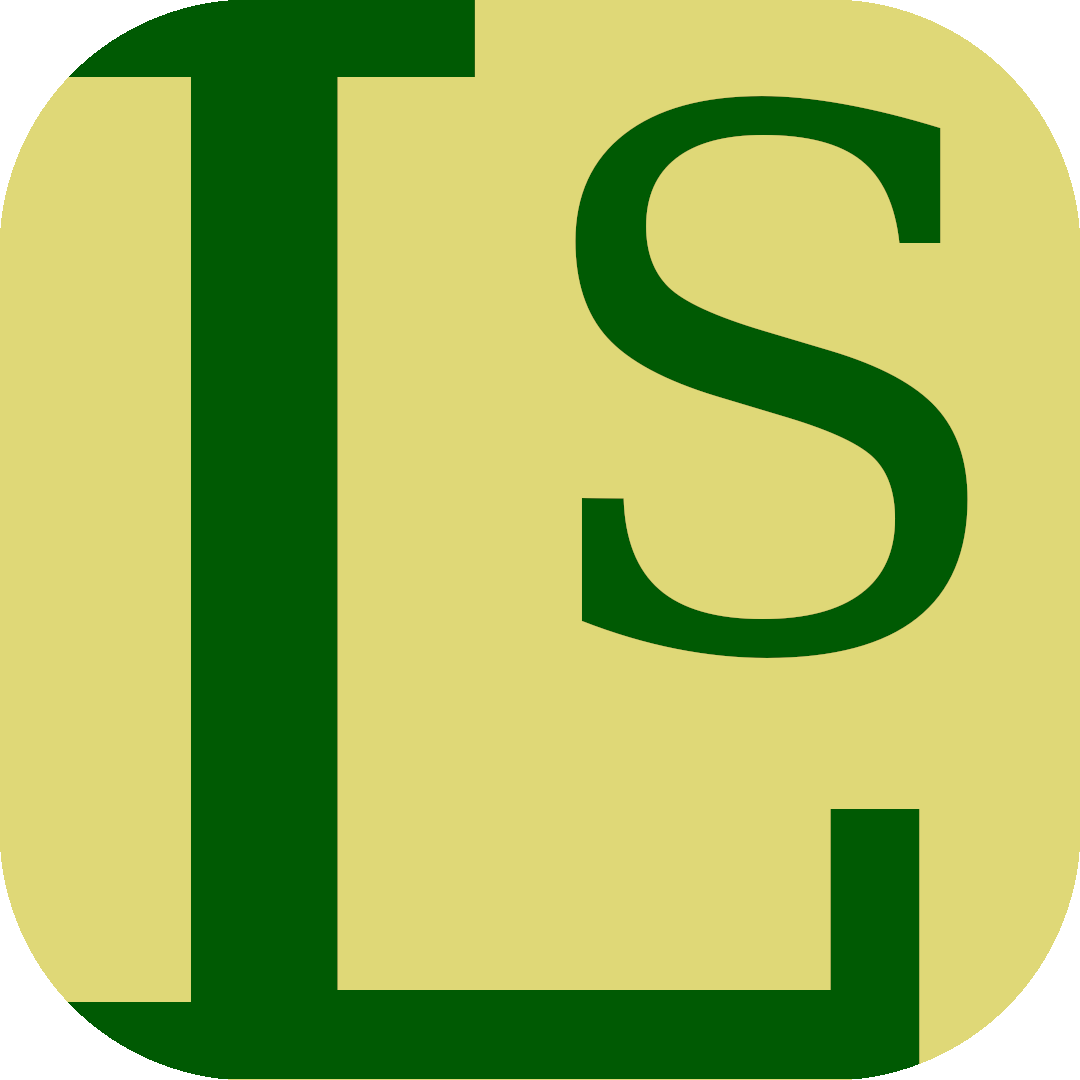
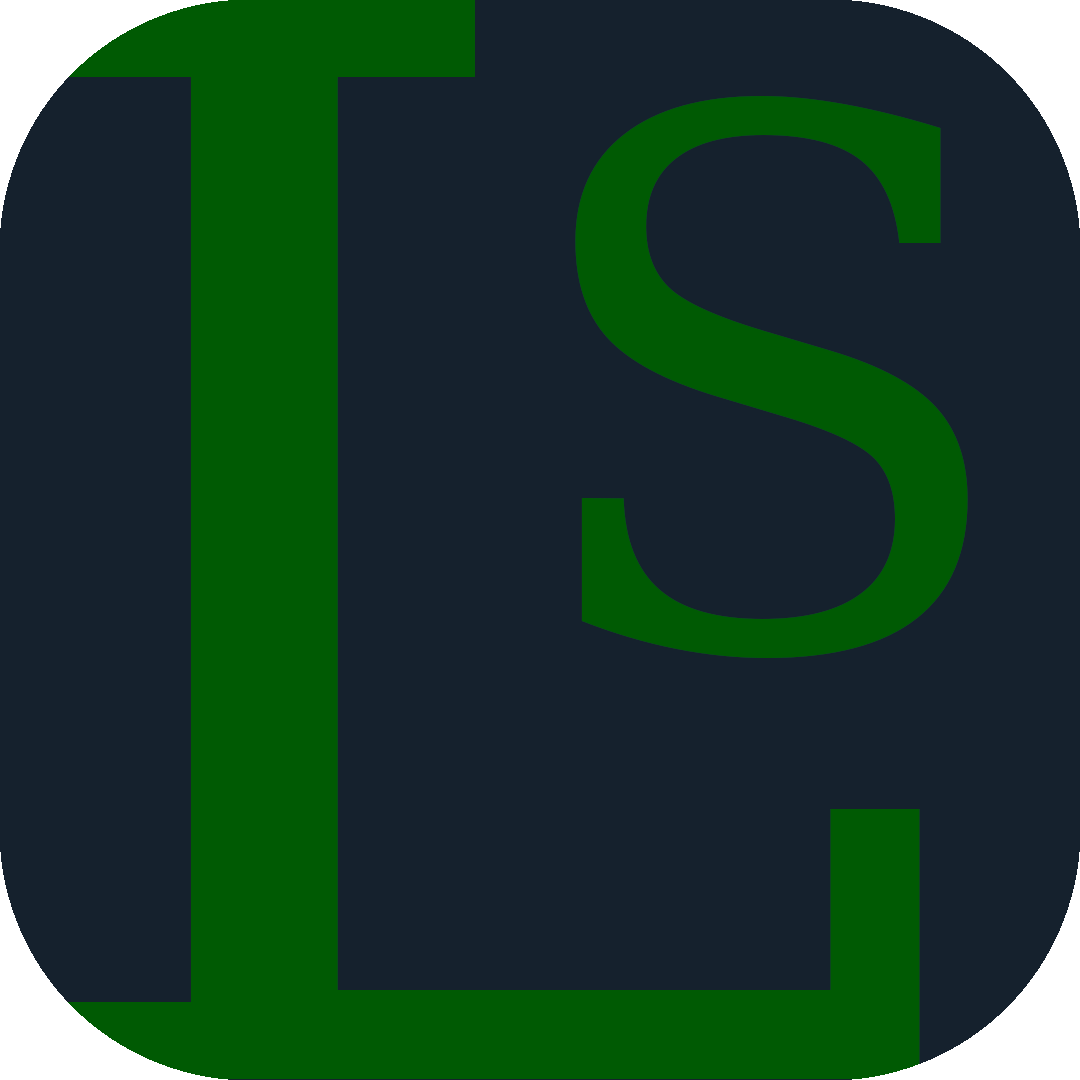
update fav to design colors

diff --git a/frontend/looksyk/src/index.html b/frontend/looksyk/src/index.html
@@ -6,7 +6,7 @@
   <base href="/">
   <link rel="stylesheet" href="/api/design">
   <meta name="viewport" content="width=device-width, initial-scale=1">
-  <link rel="icon" type="image/x-icon" href="favicon.ico">
+  <link rel="icon" type="image/x-icon" href="assets/fav.png">
   <link href="/assets/fonts/font_eb_garamond.css" rel="stylesheet">
   <link href="/assets/fonts/material-icons.css" rel="stylesheet">
   <link rel="stylesheet" href="/assets/fonts/highlightjs.11.9.min.css">

diff --git a/backend/src/io/http/static/endpoints.rs b/backend/src/io/http/static/endpoints.rs
@@ -33,7 +33,6 @@ async fn catch_all_journal() -> Result<NamedFile, Error> {
 fn index_html_response() -> Result<NamedFile, Error> {
     let static_file_name = "index.html";
     let complete_path = to_static_path(static_file_name);
-    println!("serving {}", complete_path.display());
     Ok(NamedFile::open(complete_path)?
         .use_last_modified(true)
         .set_content_disposition(ContentDisposition {
@@ -70,8 +69,20 @@ async fn css(path: web::Path<String>) -> Result<NamedFile, Error> {
 #[get("/assets/fonts/{filename}.css")]
 async fn font_css(path: web::Path<String>) -> Result<NamedFile, Error> {
     let static_file_name = format!("{}.css", path.into_inner());
-    println!("serving font css {}", static_file_name.as_str());
     let complete_path = to_static_asset_fonts(static_file_name.as_str());
+    Ok(NamedFile::open(complete_path)?
+        .use_last_modified(true)
+        .set_content_disposition(ContentDisposition {
+            disposition: DispositionType::Inline,
+            parameters: vec![],
+        }))
+}
+
+
+#[get("/assets/fav.png")]
+async fn fav() -> Result<NamedFile, Error> {
+    let static_file_name = "fav.png";
+    let complete_path = to_static_assets(static_file_name);
     Ok(NamedFile::open(complete_path)?
         .use_last_modified(true)
         .set_content_disposition(ContentDisposition {

diff --git a/backend/src/io/http/media/endpoints.rs b/backend/src/io/http/media/endpoints.rs
@@ -109,6 +109,7 @@ pub async fn assets(req: HttpRequest, data: Data<AppState>) -> Result<NamedFile,
 #[get("/api/asset-preview/info/{filename:.*}")]
 pub async fn asset_preview(req: HttpRequest, data: Data<AppState>) -> error::Result<impl Responder> {
     let path: String = req.match_info().query("filename").parse()?;
+
     let asset_descriptor = AssetDescriptor::new(path);
     let file_size = get_file_size(create_absolute_media_path(
         &MediaOnDisk {

diff --git a/backend/src/main.rs b/backend/src/main.rs
@@ -85,6 +85,7 @@ async fn main() -> std::io::Result<()> {
             .service(media::endpoints::asset_suggestion)
             .service(design::endpoints::css_theme)
             .service(metainfo::endpoints::get_metainfo)
+            .service(r#static::endpoints::fav)
             .service(r#static::endpoints::index_html)
             .service(r#static::endpoints::css)
             .service(r#static::endpoints::js)
